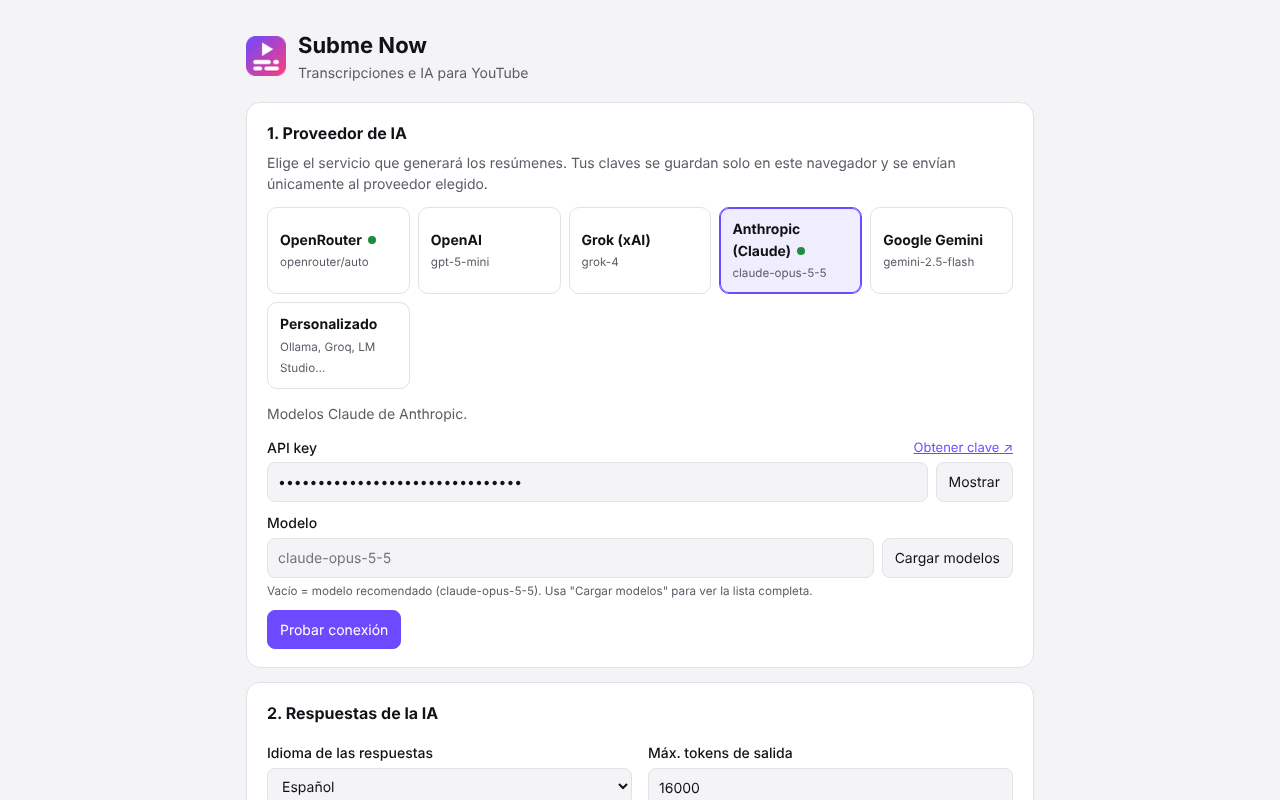
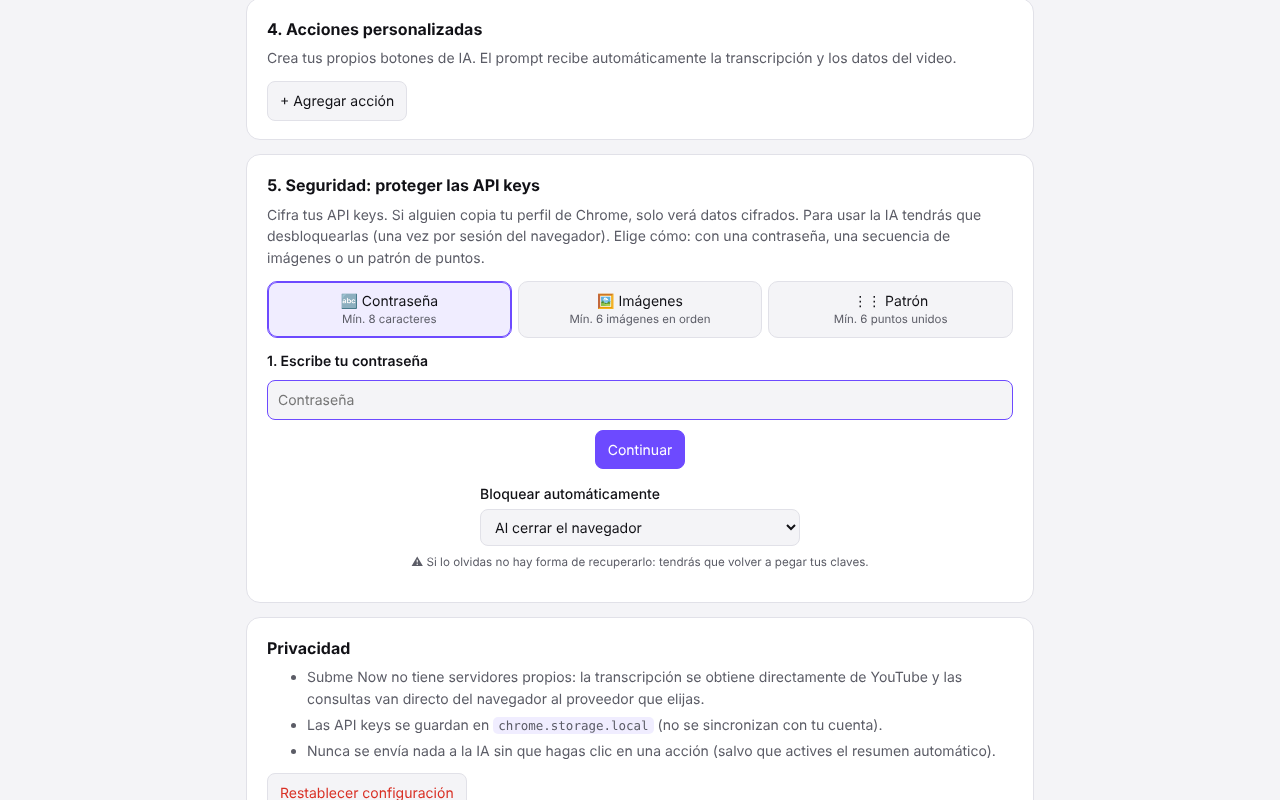
Ficha de la tienda sin lista de marcas (corrige rechazo por exceso de palabras clave)
- Nueva descripción en español e inglés sin enumerar proveedores ni productos
- Resumen corto del manifest sin marcas
- Captura de resumen sin la lista de proveedores
- Versión 1.1.1 para volver a enviar

Claude-Session: https://claude.ai/code/session_01KWnJ7HinG2Ma3nhgpTdprM

diff --git a/store/FICHA-TIENDA.md b/store/FICHA-TIENDA.md
@@ -1,5 +1,7 @@
 # Ficha de la Chrome Web Store
 
+> Importante: no agregues listas de marcas o productos (nombres de proveedores de IA, etc.) en la descripción. Google lo considera spam de palabras clave y rechaza la extensión (rechazo "Yellow Argon" del 5/11/2026).
+
 Copia y pega cada campo en el Developer Dashboard. Está en **español** (idioma principal) y en **inglés** (agrégalo como segundo idioma en "Store listing → Add language").
 
 ---
@@ -9,60 +11,40 @@ Copia y pega cada campo en el Developer Dashboard. Está en **español** (idioma
 **Nombre** (viene del manifest): Subme Now: transcripción y resumen con IA para YouTube
 
 **Resumen** (máx. 132, viene del manifest):
-Extrae subtítulos de videos y Shorts de YouTube y crea resúmenes, capítulos y quizzes con OpenAI, Claude, Gemini, Grok u OpenRouter.
+Extrae los subtítulos de videos y Shorts de YouTube y crea resúmenes, capítulos y cuestionarios con IA usando tu propia API key.
 
 **Categoría:** Herramientas (Tools) — alternativa: Educación
 
 **Descripción:**
 
 ```
-Subme Now pone la transcripción de cualquier video de YouTube al lado del reproductor y te deja hacer con ella lo que quieras usando inteligencia artificial.
+Subme Now muestra la transcripción completa de cualquier video de YouTube al lado del reproductor y te permite aprovecharla con inteligencia artificial: resumirla, dividirla en capítulos, estudiarla o hacerle preguntas.
 
-📜 TRANSCRIPCIÓN (gratis, sin cuenta)
-• Panel integrado a la derecha del video y panel flotante en YouTube Shorts
-• Elige el idioma de los subtítulos o usa la traducción automática de YouTube
-• Haz clic en cualquier línea para saltar a ese momento
-• La línea que se está reproduciendo se resalta y sigue el video
-• Busca palabras dentro de la transcripción
-• Copia o descarga en TXT, SRT, VTT, Markdown o JSON
+TRANSCRIPCIÓN (gratis, sin cuenta)
+• Panel integrado junto al video y panel flotante en YouTube Shorts.
+• Elige el idioma de los subtítulos o usa la traducción automática de YouTube.
+• Haz clic en cualquier línea para saltar a ese momento del video.
+• La línea que se está reproduciendo se resalta y sigue el video.
+• Busca palabras dentro de la transcripción.
+• Copia o descarga el texto o los subtítulos en varios formatos.
 
-✨ IA CON TU PROPIA API KEY
-Conecta OpenRouter, OpenAI, Grok (xAI), Anthropic (Claude), Google Gemini o cualquier API compatible con OpenAI (Ollama, LM Studio, Groq, DeepSeek…). Cambia de proveedor, modelo e idioma de respuesta directamente desde el panel.
+ACCIONES CON IA
+Con un clic puedes obtener un resumen, los puntos clave, capítulos con marcas de tiempo, apuntes de estudio, un mapa mental, un cuestionario, tarjetas de estudio, citas destacadas, los pasos de un tutorial, las afirmaciones que conviene verificar, una explicación sencilla, borradores para redes sociales o un artículo, la transcripción limpia o una traducción completa.
 
-16 acciones con un clic:
-• Resumen con TL;DR
-• Puntos clave
-• Capítulos con marcas de tiempo (listos para pegar en la descripción)
-• Apuntes de estudio con glosario
-• Mapa mental
-• Quiz de opción múltiple
-• Flashcards con exportación a Anki
-• Citas destacadas
-• Pasos de un tutorial o lista de tareas
-• Afirmaciones a verificar y posibles sesgos
-• Explicación sencilla
-• Hilo para X, post para LinkedIn y artículo de blog
-• Transcripción limpia con puntuación
-• Traducción completa
+Las marcas de tiempo de cada respuesta son clicables y te llevan directo a ese momento del video. También puedes crear tus propias acciones o escribir cualquier pedido.
 
-💬 CHAT CON EL VIDEO
-Hazle preguntas al video: la IA responde a partir de la transcripción y te indica en qué minuto se dice cada cosa. Todas las marcas de tiempo son clicables.
+CHAT CON EL VIDEO
+Haz preguntas sobre el contenido y recibe respuestas basadas en lo que realmente se dice, con el minuto exacto de cada referencia.
 
-⭐ A TU MEDIDA
-• Crea tus propios botones de IA con tus prompts
-• Prompt libre para pedir cualquier cosa
-• Resumen automático opcional al abrir cada video
-• Videos de horas: se condensan por partes automáticamente
-• Modo claro y oscuro, igual que YouTube
+TU PROPIA CLAVE, TU ELECCIÓN
+Las funciones de IA usan tu propia API key del proveedor que prefieras, que configuras en las opciones de la extensión. Puedes cambiar de proveedor, modelo e idioma de respuesta directamente desde el panel. La transcripción funciona sin ninguna clave.
 
-🔒 PRIVACIDAD
-• Sin servidores intermedios, sin analíticas, sin publicidad
-• Tus API keys se guardan solo en tu navegador y YouTube no puede leerlas
-• Opcional: cifra tus claves (AES-256) con contraseña, secuencia de imágenes o patrón de puntos
-• Solo se envía la transcripción a la IA cuando tú lo pides
+PRIVACIDAD Y SEGURIDAD
+• Sin servidores intermedios, sin analíticas y sin publicidad.
+• Tus claves se guardan solo en tu navegador y la página de YouTube no puede leerlas.
+• Opcionalmente, puedes cifrarlas con una contraseña, una secuencia de imágenes o un patrón.
+• La transcripción se envía a la IA solo cuando tú lo pides.
 • Código abierto: https://github.com/diegoparras/Subme-Now
-
-Nota: las funciones de IA requieren una API key del proveedor que elijas (algunos, como OpenRouter, ofrecen modelos gratuitos). La transcripción funciona sin ninguna clave.
 
 Subme Now no está afiliado a YouTube ni a Google.
 ```
@@ -73,36 +55,38 @@ Subme Now no está afiliado a YouTube ni a Google.
 
 **Name:** Subme Now: AI transcript & summary for YouTube
 
-**Summary:** Get YouTube video & Shorts transcripts and make AI summaries, chapters and quizzes with OpenAI, Claude, Gemini, Grok or OpenRouter.
+**Summary:** Get transcripts from YouTube videos and Shorts and turn them into AI summaries, chapters and quizzes using your own API key.
 
 **Description:**
 
 ```
-Subme Now puts the transcript of any YouTube video right next to the player and lets you do anything with it using AI.
+Subme Now shows the full transcript of any YouTube video right next to the player and lets you put it to work with AI: summarize it, split it into chapters, study it or ask it questions.
 
-📜 TRANSCRIPT (free, no account)
-• Panel next to the video, plus a floating panel on YouTube Shorts
-• Pick the caption language or use YouTube's auto-translation
-• Click any line to jump to that moment
-• The current line is highlighted and follows the video
-• Search inside the transcript
-• Copy or download as TXT, SRT, VTT, Markdown or JSON
+TRANSCRIPT (free, no account)
+• Panel next to the video, plus a floating panel on YouTube Shorts.
+• Pick the caption language or use YouTube's automatic translation.
+• Click any line to jump to that moment in the video.
+• The current line is highlighted and follows the video.
+• Search inside the transcript.
+• Copy or download the text or captions in several formats.
 
-✨ AI WITH YOUR OWN API KEY
-Connect OpenRouter, OpenAI, Grok (xAI), Anthropic (Claude), Google Gemini or any OpenAI-compatible API (Ollama, LM Studio, Groq, DeepSeek…). Switch provider, model and answer language right from the panel.
+AI ACTIONS
+With one click you get a summary, key points, timestamped chapters, study notes, a mind map, a quiz, flashcards, notable quotes, tutorial steps, claims worth fact-checking, a simple explanation, social media or blog drafts, a clean transcript or a full translation.
 
-16 one-click actions: summary with TL;DR, key points, timestamped chapters, study notes, mind map, quiz, Anki flashcards, quotes, tutorial steps, fact-check, simple explanation, X thread, LinkedIn post, blog article, clean transcript and full translation.
+Timestamps in every answer are clickable and take you straight to that moment. You can also create your own actions or type any request.
 
-💬 CHAT WITH THE VIDEO
-Ask questions and get answers grounded in the transcript, with clickable timestamps.
+CHAT WITH THE VIDEO
+Ask questions about the content and get answers grounded in what is actually said, with the exact minute for each reference.
 
-⭐ MAKE IT YOURS
-Custom AI buttons, free-form prompts, optional auto-summary, long videos condensed automatically, light and dark mode.
+YOUR OWN KEY, YOUR CHOICE
+AI features use your own API key from the provider you prefer, set up in the extension options. Switch provider, model and answer language right from the panel. The transcript works without any key.
 
-🔒 PRIVACY
-No middle-man servers, no analytics, no ads. Your API keys stay in your browser and YouTube can't read them; optionally encrypt them (AES-256) with a password, an image sequence or a dot pattern. Transcripts are sent to the AI only when you ask. Open source: https://github.com/diegoparras/Subme-Now
-
-AI features need an API key from your chosen provider (some, like OpenRouter, offer free models). The transcript works without any key.
+PRIVACY AND SECURITY
+• No middle-man servers, no analytics, no ads.
+• Your keys stay in your browser and the YouTube page cannot read them.
+• Optionally encrypt them with a password, an image sequence or a pattern.
+• The transcript is sent to the AI only when you ask.
+• Open source: https://github.com/diegoparras/Subme-Now
 
 Subme Now is not affiliated with YouTube or Google.
 ```

diff --git a/store/GUIA-PUBLICACION.md b/store/GUIA-PUBLICACION.md
@@ -10,7 +10,7 @@ Tiempo estimado: 30–45 minutos + revisión de Google (normalmente de 1 a 7 dí
    ```bash
    npm run build
    ```
-   Crea `dist/subme-now-1.1.0.zip` (solo `manifest.json`, `_locales`, `icons` y `src`).
+   Crea `dist/subme-now-1.1.1.zip` (solo `manifest.json`, `_locales`, `icons` y `src`).
 3. **Prueba el paquete**: descomprímelo en una carpeta nueva y cárgalo en `chrome://extensions` → *Cargar descomprimida*. Revisa un video normal, un Short y una acción de IA.
 
 ## 1. Cuenta de desarrollador
@@ -21,7 +21,7 @@ Tiempo estimado: 30–45 minutos + revisión de Google (normalmente de 1 a 7 dí
 
 ## 2. Subir el paquete
 
-**Items → New item →** sube `dist/subme-now-1.1.0.zip`.
+**Items → New item →** sube `dist/subme-now-1.1.1.zip`.
 
 ## 3. Pestaña "Store listing"
 
